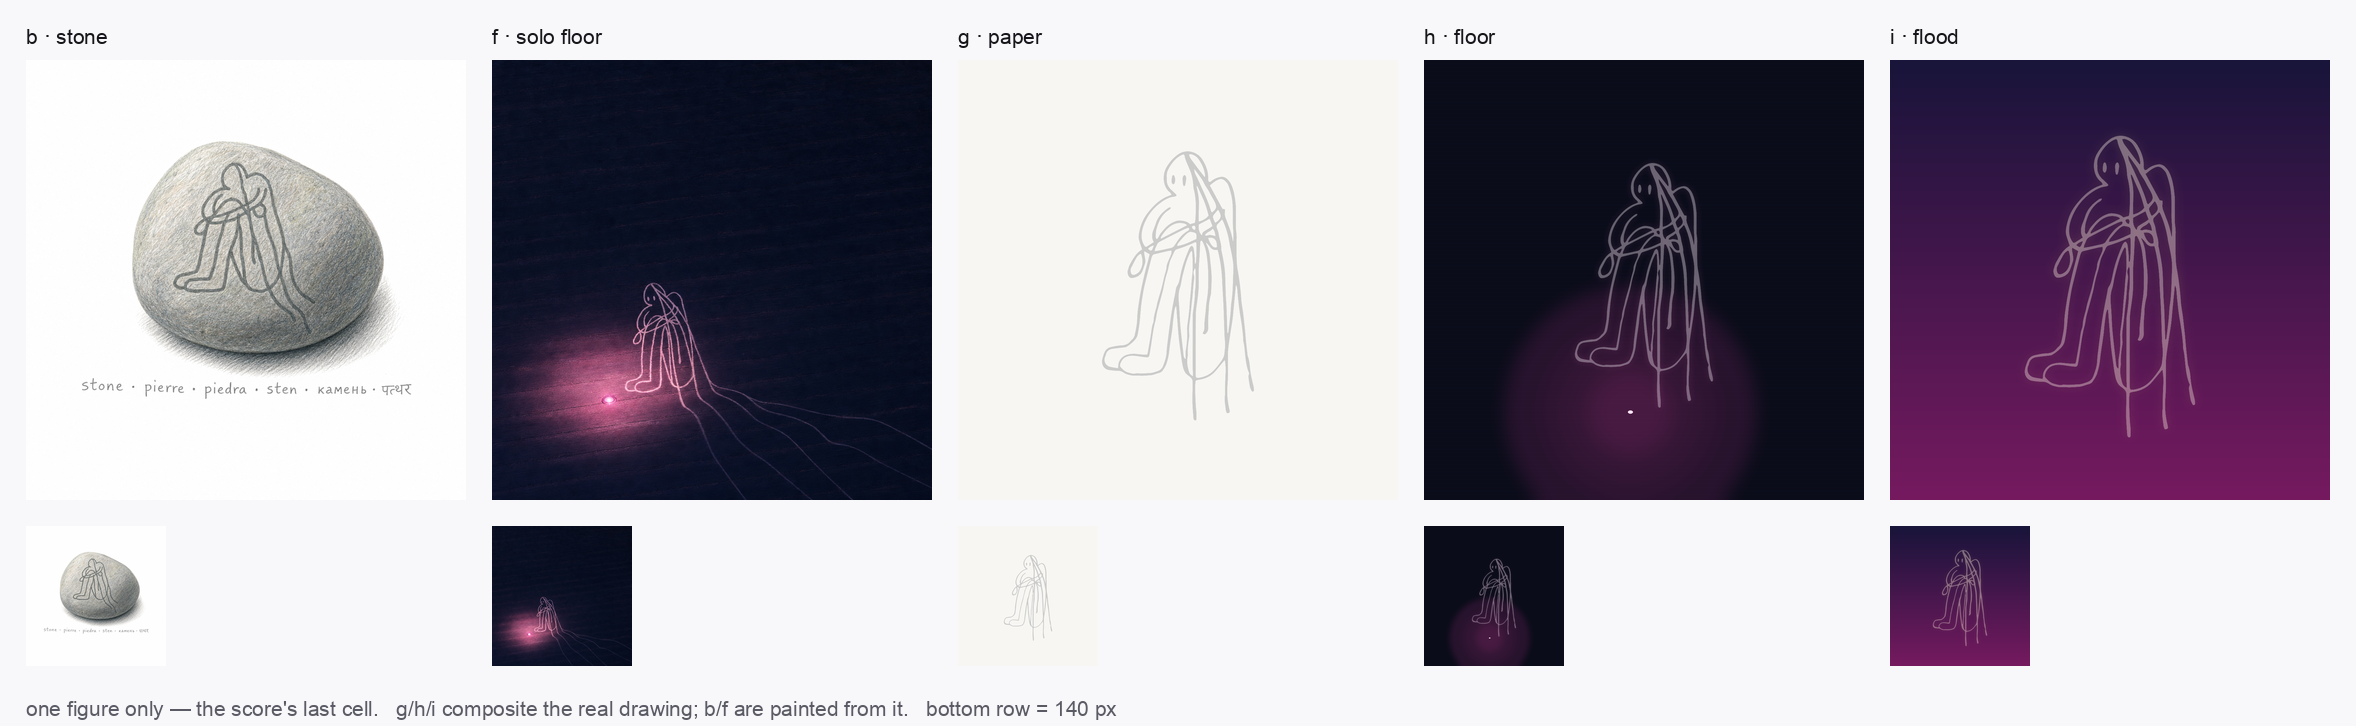
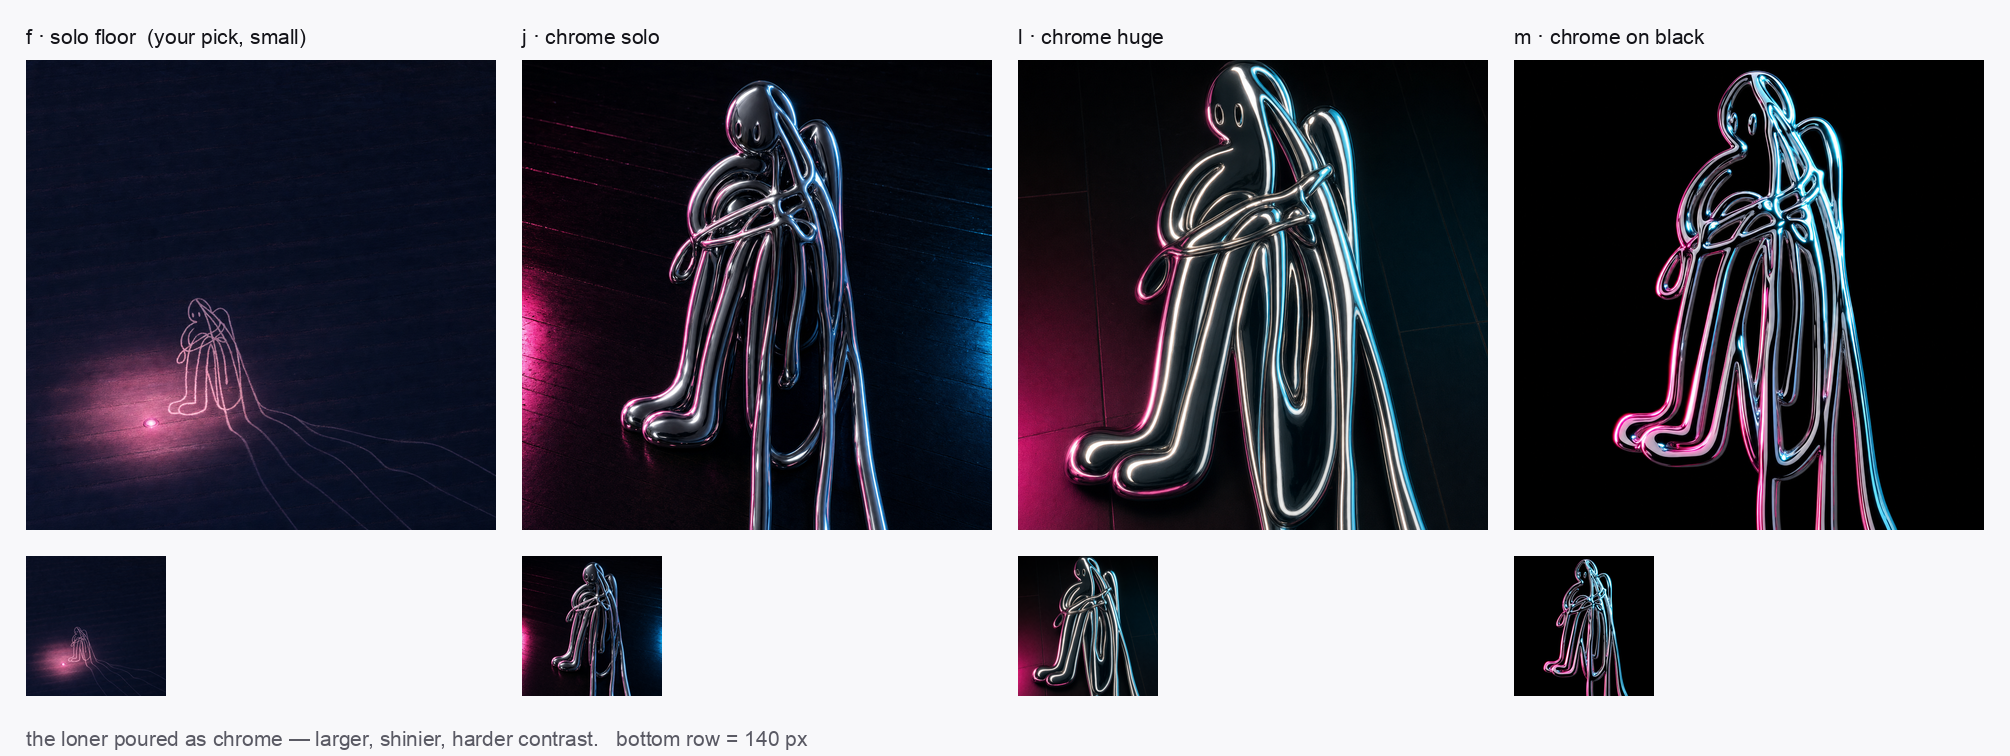
the loner is poured in chrome: bigger in the frame, harder contrast, metal instead of chalk
@jeffrey on the solo-floor sleeve: much larger, more metallic, more shiny,
more contrast — more like the track. So the figure stops being a small chalk
drawing in a wide room and becomes a monumental rope of mirror-polished metal
lit by one magenta and one cyan source, which is the record's own palette.

Three takes: j keeps a visible dark floor under the metal, l crops in until the
figure presses every edge, m drops the room entirely for absolute black so the
chrome carries the whole picture. All three read at the 140 px a streaming app
renders, which the original solo-floor did not.

Two composites of my own (a neon fill pushed through the drawing's mask) went
to archive-grid/ — a line that thin cannot carry chrome shading, and they came
out reading as neon rather than metal.

Claude-Session: https://claude.ai/code/session_015qj3VtJ8ZzqTurd3UNm374

diff --git a/pop/loner/covers/bin/chrome.py b/pop/loner/covers/bin/chrome.py
@@ -1,0 +1,148 @@
+"""Chrome sleeves built from the score's own final graphic, at full size.
+
+@jeffrey on the solo-floor cover: "much larger loner, more contrast, more
+metallic / shiny — more like the track." So the drawing is poured as metal
+rather than chalk: the ink becomes a chrome rope lit from one side, and the
+figure is scaled to fill the sleeve instead of sitting small in a wide room.
+
+The line stays Camille's — every treatment here is a fill applied through the
+extracted drawing's own mask, never a redrawing of it.
+"""
+import os
+import numpy as np
+from PIL import Image, ImageDraw, ImageFilter
+
+HERE = os.path.dirname(os.path.abspath(__file__))
+COVERS = os.path.dirname(HERE)
+SIDE = 3000
+SRC = Image.open(os.path.join(COVERS, "refs", "loner-final-figure.png")).convert("L")
+
+
+def mask(height):
+    w = round(SRC.width * height / SRC.height)
+    g = SRC.resize((w, height), Image.LANCZOS)
+    return Image.fromarray((255 - np.asarray(g)).astype(np.uint8))
+
+
+def place(height, cx=0.5, top=0.06):
+    """Full-size alpha for the figure, scaled and positioned on the sleeve."""
+    m = mask(height)
+    a = Image.new("L", (SIDE, SIDE), 0)
+    a.paste(m, (int(SIDE * cx - m.width / 2), int(SIDE * top)))
+    return a
+
+
+def chrome_bar(stops):
+    """A vertical metal ramp: [(pos, (r,g,b)), …] → SIDE-tall gradient image."""
+    pos = np.array([s[0] for s in stops], float)
+    cols = np.array([s[1] for s in stops], float)
+    t = np.linspace(0, 1, SIDE)
+    ramp = np.stack([np.interp(t, pos, cols[:, i]) for i in range(3)], axis=1)
+    return np.repeat(ramp[:, None, :], SIDE, axis=1).astype(np.uint8)
+
+
+def relief(alpha, dx, dy, radius):
+    """Offset-blur of the mask — the shading trick that gives the rope volume."""
+    b = alpha.filter(ImageFilter.GaussianBlur(radius))
+    out = Image.new("L", (SIDE, SIDE), 0)
+    out.paste(b, (dx, dy))
+    return out
+
+
+def metal(alpha, ramp, lit=(255, 255, 255), shade=(6, 6, 14), lift=26):
+    """Light the figure like poured metal: top glint, underside shadow."""
+    body = Image.fromarray(ramp).convert("RGBA")
+    body.putalpha(alpha)
+
+    a = np.asarray(alpha).astype(np.int16)
+    top = np.asarray(relief(alpha, 0, lift, 9)).astype(np.int16)
+    bot = np.asarray(relief(alpha, 0, -lift, 9)).astype(np.int16)
+    hi = np.clip(a - top, 0, 255).astype(np.uint8)      # upper edge catches light
+    lo = np.clip(a - bot, 0, 255).astype(np.uint8)      # lower edge falls into shadow
+
+    sheet = Image.new("RGBA", (SIDE, SIDE), (0, 0, 0, 0))
+    sheet.alpha_composite(body)
+    hl = Image.new("RGBA", (SIDE, SIDE), lit + (0,)); hl.putalpha(Image.fromarray(hi))
+    sh = Image.new("RGBA", (SIDE, SIDE), shade + (0,)); sh.putalpha(Image.fromarray(lo))
+    sheet.alpha_composite(sh)
+    sheet.alpha_composite(hl)
+    return sheet
+
+
+def backlight(im, alpha, warm, cool):
+    """The house 3-layer separation: glow behind, vignette, then a rim halo."""
+    glow = alpha.filter(ImageFilter.GaussianBlur(SIDE // 16))
+    g = Image.new("RGBA", (SIDE, SIDE), warm + (0,))
+    g.putalpha(Image.fromarray((np.asarray(glow) * 0.55).astype(np.uint8)))
+    out = Image.alpha_composite(im, g)
+
+    yy, xx = np.mgrid[0:SIDE, 0:SIDE].astype(float)
+    r = np.hypot(xx - SIDE / 2, yy - SIDE / 2) / (SIDE * 0.72)
+    vig = np.clip(r ** 2.1, 0, 1)
+    v = Image.new("RGBA", (SIDE, SIDE), (0, 0, 0, 0))
+    v.putalpha(Image.fromarray((vig * 205).astype(np.uint8)))
+    out = Image.alpha_composite(out, v)
+
+    ring = np.clip(np.asarray(alpha.filter(ImageFilter.GaussianBlur(SIDE // 220))).astype(np.int16)
+                   - np.asarray(alpha).astype(np.int16), 0, 255)
+    h = Image.new("RGBA", (SIDE, SIDE), cool + (0,))
+    h.putalpha(Image.fromarray((ring * 0.85).astype(np.uint8)))
+    return Image.alpha_composite(out, h)
+
+
+def boards(base, tint):
+    im = Image.new("RGBA", (SIDE, SIDE), base + (255,))
+    d = ImageDraw.Draw(im)
+    for i in range(SIDE // 30):
+        d.line([(0, i * 30), (SIDE, i * 30)], fill=tint + (255,), width=1)
+    return im
+
+
+def lamp(im, cx, cy, colour, reach):
+    pool = Image.new("RGBA", (SIDE, SIDE), (0, 0, 0, 0))
+    d = ImageDraw.Draw(pool)
+    for r, a in ((reach, 40), (int(reach * 0.6), 58), (int(reach * 0.3), 96)):
+        d.ellipse([cx - r, cy - r, cx + r, cy + r], fill=colour + (a,))
+    im.alpha_composite(pool.filter(ImageFilter.GaussianBlur(SIDE // 34)))
+    d2 = ImageDraw.Draw(im)
+    d2.ellipse([cx - 20, cy - 13, cx + 20, cy + 13], fill=(255, 232, 250, 255))
+    return im
+
+
+def save(im, name):
+    p = os.path.join(COVERS, f"lonerclub-cover-{name}.png")
+    im.convert("RGB").save(p)
+    print("→", os.path.basename(p))
+
+
+# j2 · chrome floor — the big metal loner over the magenta lamp
+def chrome_floor():
+    a = place(int(SIDE * 0.88), cx=0.52, top=0.05)
+    im = boards((7, 8, 20), (11, 13, 28))
+    im = lamp(im, int(SIDE * 0.24), int(SIDE * 0.78), (236, 58, 168), int(SIDE * 0.40))
+    ramp = chrome_bar([(0.00, (250, 250, 255)), (0.16, (150, 162, 190)),
+                       (0.34, (250, 248, 255)), (0.52, (86, 96, 130)),
+                       (0.70, (226, 232, 248)), (0.86, (60, 68, 98)),
+                       (1.00, (198, 206, 230))])
+    im = backlight(im, a, (232, 70, 172), (150, 220, 255))
+    im.alpha_composite(metal(a, ramp))
+    return im
+
+
+# k · chrome flood — same metal, magenta-to-indigo ground, maximum contrast
+def chrome_flood():
+    a = place(int(SIDE * 0.92), cx=0.5, top=0.04)
+    top, bot = np.array([12, 8, 34]), np.array([104, 14, 84])
+    t = np.linspace(0, 1, SIDE)[:, None, None]
+    im = Image.fromarray(np.repeat((top * (1 - t) + bot * t).astype(np.uint8), SIDE, axis=1)).convert("RGBA")
+    ramp = chrome_bar([(0.00, (255, 252, 245)), (0.20, (196, 168, 210)),
+                       (0.38, (255, 246, 250)), (0.56, (118, 78, 128)),
+                       (0.74, (246, 226, 240)), (0.90, (74, 48, 90)),
+                       (1.00, (232, 214, 236))])
+    im = backlight(im, a, (255, 96, 190), (190, 240, 255))
+    im.alpha_composite(metal(a, ramp, lit=(255, 255, 252)))
+    return im
+
+
+save(chrome_floor(), "j2-chrome-floor")
+save(chrome_flood(), "k-chrome-flood")
